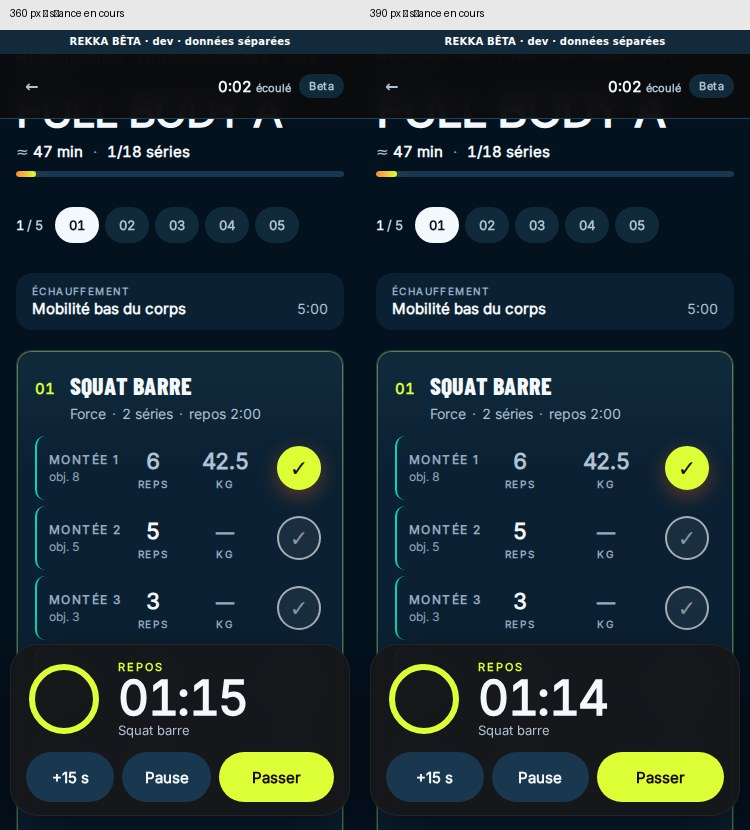
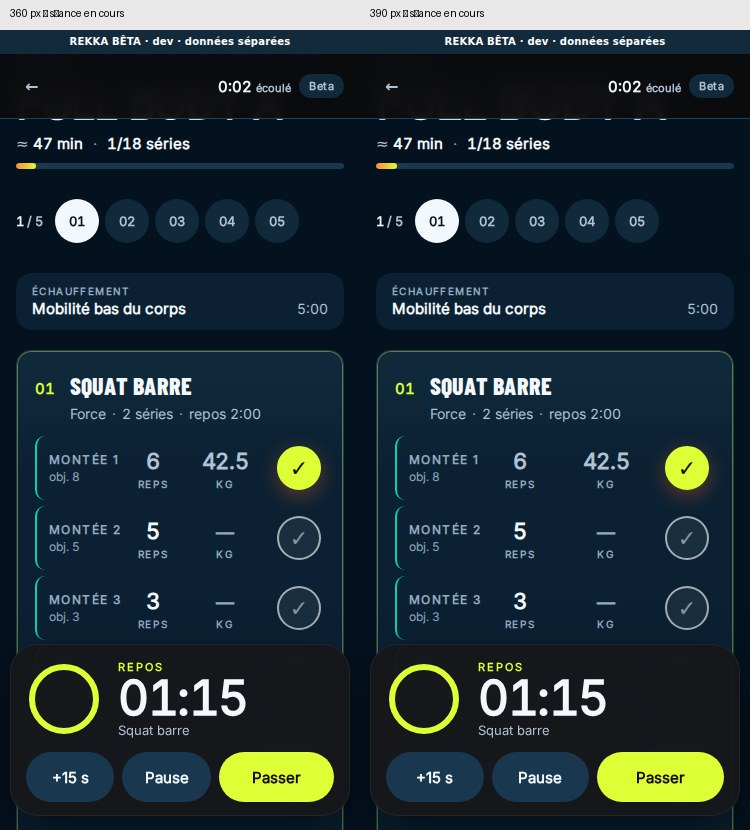
fix: increase workout navigation touch targets

diff --git a/apps/kairo/src/design/kairo-ds.css b/apps/kairo/src/design/kairo-ds.css
@@ -45,7 +45,7 @@
 .k-nav-count { font-size: 13px; font-weight: 800; color: var(--k-text-2); font-variant-numeric: tabular-nums; margin-right: 4px; white-space: nowrap; }
 .k-nav-count b { color: var(--k-text); }
 .k-nav-dots { display: flex; gap: 6px; overflow-x: auto; scrollbar-width: none; }
-.k-nav-dot { min-width: 44px; height: 36px; padding: 0 10px; border-radius: 99px; border: 0; background: var(--k-surface-2); color: var(--k-text-2); font-weight: 800; font-size: 13px; font-variant-numeric: tabular-nums; }
+.k-nav-dot { min-width: 44px; height: 44px; padding: 0 10px; border-radius: 99px; border: 0; background: var(--k-surface-2); color: var(--k-text-2); font-weight: 800; font-size: 13px; font-variant-numeric: tabular-nums; }
 .k-nav-dot.current { background: var(--k-text); color: var(--k-bg); }
 .k-nav-dot.done { color: var(--k-accent); background: var(--k-accent-soft); }
 
